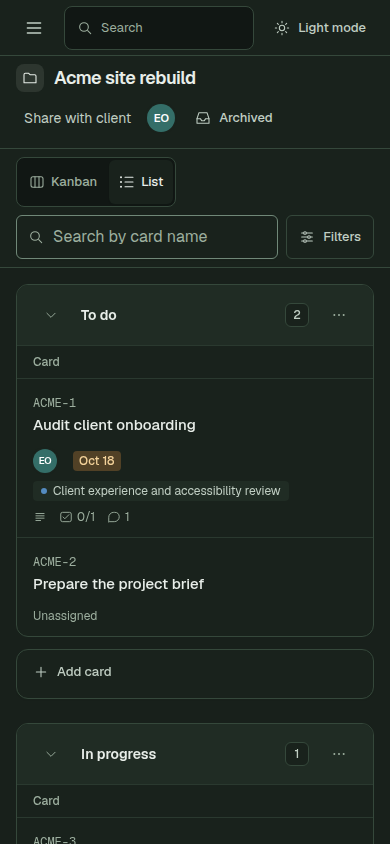
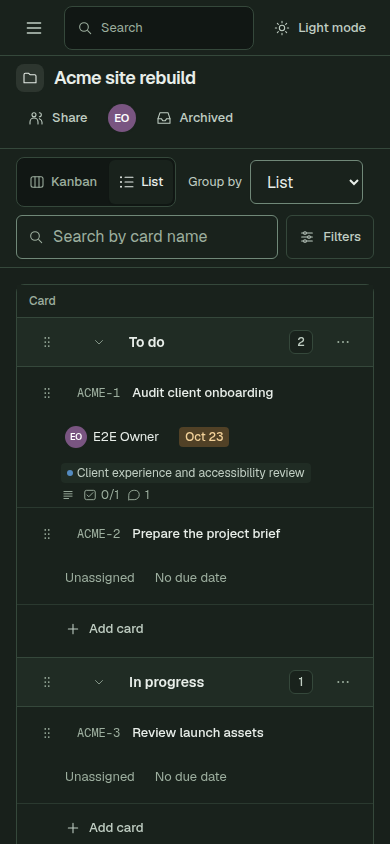
Finalize teams and board grouping preview verification

diff --git a/e2e/project-access.spec.ts b/e2e/project-access.spec.ts
@@ -107,10 +107,10 @@ test('empty access, team sharing, scoped assignment, personal stars and live uns
   await expect(member.getByRole('region', { name: 'Starred', exact: true })).toHaveCount(0);
   await owner.keyboard.press('Escape'); await owner.reload();
   await expect(sidebar.getByRole('region', { name: 'Starred', exact: true }).getByRole('link', { name: 'Acme site rebuild', exact: true })).toBeVisible();
-  await owner.screenshot({ path: info.outputPath('project-teams-light.png'), fullPage: true, animations: 'disabled' });
+  await owner.screenshot({ path: info.outputPath('project-teams-light.png'), fullPage: true, animations: 'disabled', style: 'nextjs-portal { visibility: hidden; }' });
   await owner.getByRole('button', { name: 'Share', exact: true }).click();
   await expect(share.getByRole('button', { name: 'Unshare Delivery' })).toBeVisible();
-  await owner.screenshot({ path: info.outputPath('project-sharing-light.png'), fullPage: true, animations: 'disabled' });
+  await owner.screenshot({ path: info.outputPath('project-sharing-light.png'), fullPage: true, animations: 'disabled', style: 'nextjs-portal { visibility: hidden; }' });
   await share.getByRole('button', { name: 'Unshare Delivery' }).click();
   await owner.getByRole('alertdialog', { name: 'Unshare team?' }).getByRole('button', { name: 'Unshare team', exact: true }).click();
   await expect(member.getByRole('heading', { name: "You don't have access to this project" })).toBeVisible();
@@ -154,7 +154,7 @@ test('a team admin invites a guest with default comment access to exactly the sh
     const context = canvas.getContext('2d')!; context.font = style.font;
     return context.measureText(node.selectedOptions[0]!.text).width + parseFloat(style.paddingLeft) + parseFloat(style.paddingRight) + 20 <= node.clientWidth;
   })).toBe(true);
-  await admin.screenshot({ path: info.outputPath('team-guests-mobile-dark.png'), fullPage: true, animations: 'disabled' });
+  await admin.screenshot({ path: info.outputPath('team-guests-mobile-dark.png'), fullPage: true, animations: 'disabled', style: 'nextjs-portal { visibility: hidden; }' });
   expect(await admin.evaluate(() => document.documentElement.scrollWidth <= innerWidth)).toBe(true);
   const guest = await accept(browser, email, 'Partner Guest', true);
   await expect(guest).toHaveURL(new RegExp(`/portal/${projectId}$`));
@@ -189,6 +189,6 @@ test('team management preserves failed names, archives/restores, and enforces th
   await page.getByRole('button', { name: 'Restore team', exact: true }).click();
   await page.getByRole('alertdialog', { name: 'Restore team?' }).getByRole('button', { name: 'Restore team', exact: true }).click();
   await expect(page.getByLabel('Rename team')).toHaveValue('Design studio');
-  await page.screenshot({ path: info.outputPath('team-settings-mobile-light.png'), fullPage: true, animations: 'disabled' });
+  await page.screenshot({ path: info.outputPath('team-settings-mobile-light.png'), fullPage: true, animations: 'disabled', style: 'nextjs-portal { visibility: hidden; }' });
   await page.context().close();
 });

diff --git a/e2e/list-editing.spec.ts b/e2e/list-editing.spec.ts
@@ -65,6 +65,8 @@ test('mobile rows keep inline editors, drawer access and drag handles reachable 
   const due = page.getByRole('dialog', { name: `Due date for ${first.key}` });
   const box = (await due.boundingBox())!; expect(box.x).toBeGreaterThanOrEqual(12); expect(box.x + box.width).toBeLessThanOrEqual(378);
   await due.getByLabel('Due date', { exact: true }).fill('2026-11-21T09:00'); await due.getByRole('button', { name: 'Save', exact: true }).click();
+  await expect(due).toBeHidden();
+  await expect(task.getByRole('button', { name: `Edit due date for ${first.key}` }).getByTestId('due-pill')).toBeVisible();
   await page.screenshot({ path: info.outputPath('list-table-mobile.png'), fullPage: true, animations: 'disabled', style: 'nextjs-portal { visibility: hidden; }' });
   expect(await page.getByTestId('board-list-view').evaluate((element) => element.scrollWidth <= element.clientWidth)).toBe(true);
   expect(await page.evaluate(() => document.documentElement.scrollWidth <= innerWidth)).toBe(true);
@@ -107,6 +109,7 @@ test('one compact table supports inline name, assignment and due-date editing wi
   await due.getByLabel('Due date', { exact: true }).fill('2026-11-20T10:30');
   await due.getByLabel('Mark due date complete').check(); await due.getByRole('button', { name: 'Save', exact: true }).click();
   await expect(due).toBeHidden(); await expect(dueTrigger.getByTestId('due-pill')).toHaveAttribute('data-state', 'done');
+  await expect(page.getByTestId('toast')).toHaveCount(0);
   await page.screenshot({ path: info.outputPath('list-table-desktop.png'), fullPage: true, animations: 'disabled', style: 'nextjs-portal { visibility: hidden; }' });
   await page.getByRole('button', { name: 'Switch to dark mode' }).click();
   await page.screenshot({ path: info.outputPath('list-table-dark.png'), fullPage: true, animations: 'disabled', style: 'nextjs-portal { visibility: hidden; }' });

diff --git a/e2e/board-grouping.spec.ts b/e2e/board-grouping.spec.ts
@@ -146,6 +146,8 @@ test('due drags set Today, ask for Later, cancel and retry without changing list
   await expect(page.getByRole('table', { name: 'Board cards' })).toBeVisible();
   await expect(group(page, 'No due date')).toContainText('Plan the launch');
   await page.setViewportSize({ width: 390, height: 844 });
+  await expect(page.getByRole('button', { name: 'List', exact: true })).toHaveAttribute('aria-pressed', 'true');
+  await expect(page.getByRole('table', { name: 'Board cards' })).toBeVisible();
   expect(await page.evaluate(() => document.documentElement.scrollWidth <= innerWidth)).toBe(true);
   await page.screenshot({ path: info.outputPath('group-list-mobile-dark.png'), fullPage: true, animations: 'disabled', style: 'nextjs-portal { visibility: hidden; }' });
   await page.context().close();
@@ -178,6 +180,8 @@ test('guest due grouping is read-only, excludes assignees and survives returning
   await expect(guest.locator('[data-group-card-handle], [aria-roledescription="draggable"]')).toHaveCount(0);
   await guest.getByTestId('portal-card').click(); await guest.getByRole('link', { name: '← Board', exact: true }).click();
   await expect(guest.getByRole('combobox', { name: 'Group by' })).toHaveValue('due');
+  await guest.getByRole('tab', { name: 'No due date', exact: true }).click();
+  await expect(guest.getByTestId('portal-card')).toContainText('Guest visible card');
   await guest.screenshot({ path: info.outputPath('group-guest-mobile.png'), fullPage: true, animations: 'disabled', style: 'nextjs-portal { visibility: hidden; }' });
   expect(await guest.evaluate(() => document.documentElement.scrollWidth <= innerWidth)).toBe(true);
   await page.context().close(); await guest.context().close();

diff --git a/docs/handoffs/TEAMS_RELEASE_AND_BOARD_GROUPING.md b/docs/handoffs/TEAMS_RELEASE_AND_BOARD_GROUPING.md
@@ -1,41 +1,49 @@
 # Finish the teams release, then board grouping
 
-Status: checkpointed at the user's request, 2026-10-16; implementation is in place,
-final preview refresh/review remains. The user subsequently requested committing,
-pushing the feature branch and continuing another day, superseding the original
-no-push instruction below. No PR is opened by this session.
+Status: done, 2026-10-21. Implementation, preview review and all required checks
+are complete on `feat/teams-project-access`. No handoff tasks remain. The accepted
+scope below is retained as the implementation record.
 
-## Checkpoint and resumption
+## Completion record
 
-- Backend `faa34c0` was verified using a fresh API dev process. The owner access
-  reproduction and member-to-admin promotion regression pass. The Share picker
-  already restricted choices to member roles; it does not filter access responses.
-  `ACCESS_CONTRACT_BLOCKER.md` is resolved.
-- Mobile Teams now stacks identity above controls and gives the add-person select
-  a full row. Browser checks verify readable selector text and control placement.
-  Star failure/retry, unstar and reload persistence have acceptance coverage.
-  The three whitespace warnings were already cleaned in `a358014`.
-- Grouping is implemented for member Kanban/List, with URL composition, assignable
-  people, atomic swaps, all six timezone-aware due windows, reschedule/Later,
-  optimistic rollback, keyboard focus/collapsed destinations and boundary/realtime
-  refresh. The portal has read-only due grouping and preserves it on card return.
-- Lint, typecheck, 155 unit tests and the production build passed. Five grouping
-  journeys and five access/Teams/star journeys passed against the real backend.
-  The full 59-check browser suite passed (3.5 minutes) with
-  `BACKEND_DIR=/home/chandan/Desktop/agency-mvp-clone PW_CHANNEL=chrome npm run test:e2e`.
-  Four checks use panel-motion presentation fixtures; the new access/grouping
-  journeys use the real API, with intercepted requests only for failure recovery.
-- Remaining: rerun the due-drag journey with its latest screenshot-settling waits,
-  review the mobile grouped List screenshot after it actually reaches List, and
-  save refreshed previews (Teams, sharing, icon picker, editable List and grouping).
-  The previous grouped mobile screenshot captured the preceding Kanban transition
-  and a deliberate test-error toast; do not publish that image as the List preview.
-  The waits were corrected, but their refreshed capture still needs review.
-- Update the preview index, mark this handoff done only after the remaining visual
-  work and verification pass, then follow the user's next release instructions.
-  Backend source was not changed. Existing PR #4 remains unchanged.
+- Backend `faa34c0` was started in a fresh API process and is unchanged. The owner
+  access reproduction and member-to-admin promotion check pass. The Share picker
+  offers only member roles; it does not filter the access response. See the
+  [resolved blocker](ACCESS_CONTRACT_BLOCKER.md).
+- Teams controls stack beneath each person's identity on mobile, and the
+  add-person selector gets a full row. Tests verify text fits and control placement.
+  Star failure/retry, unstar and reload persistence are covered. Whitespace warnings
+  were cleaned in `a358014`; release follow-up is committed in `9920563`.
+- Board grouping is committed in `b678768`: member Kanban/List, URL/filter
+  composition, assignable people, atomic swaps, timezone-aware due windows,
+  reschedule/Later, optimistic rollback, keyboard focus/collapsed destinations,
+  boundary/realtime refresh and the separate read-only guest due presentation.
+- Fifteen [saved previews](../previews/README.md) were refreshed and visually
+  reviewed in light/dark themes and at desktop/mobile widths: grouping, the guest
+  portal, populated and editable List tables, Teams, sharing, stars and icon editing.
+  The mobile grouped capture shows the selected List table. Captures wait for saved
+  dates and deliberate error toasts to settle; guest captures show the visible card.
+- The drawer-history motion regression waits for the drawer's full open width
+  before testing Back. This avoids starting the closing check during its opening
+  transition. All four focused motion checks pass; no app motion behavior changed.
+- Passed: lint, typecheck, 155 unit tests, production build and the complete
+  59-check browser suite (3.9 minutes). Four browser checks use motion fixtures; the
+  access/grouping journeys use the real API and intercept only failure cases.
+- Preview-index links and PNG dimensions are verified. No API contract discrepancy
+  remains. Final verification and preview records are committed separately from
+  the implementation. This resumed session does not push or open a PR.
 
-## Original handoff
+Verification commands:
+
+```sh
+npm run lint
+npm run typecheck
+npm test -- --runInBand
+npm run build
+BACKEND_DIR=/home/chandan/Desktop/agency-mvp-clone PW_CHANNEL=chrome npm run test:e2e
+```
+
+## Accepted handoff
 
 Written by the backend session for the frontend session.
 The backend is finished, tested and pushed on `refactor/api-domains` (latest commit `faa34c0`) in

diff --git a/docs/previews/README.md b/docs/previews/README.md
@@ -3,6 +3,10 @@
 Screenshots come from Playwright journeys against the local API with disposable
 accounts. Images show implemented behavior; synthetic names are test data.
 
+Teams, sharing, the icon picker, editable List tables and board grouping were
+refreshed and visually reviewed on 2026-10-21. Capture journeys wait for saved
+state, the intended presentation and deliberate failure toasts to settle.
+
 - [Inline list creation](list-created-inline.png) / [200px empty lists](kanban-empty-height.png): click Add list and name the new column directly.
 - [Board filters](board-filters-light.png) / [dark](board-filters-dark.png) / [mobile](board-filters-mobile.png): right-aligned search, anchored filters and the project icon header.
 - Confirmation modal light/dark/mobile screenshots are generated by `e2e/confirmation.spec.ts`, which checks focus, cancellation and confirmed actions.
@@ -10,12 +14,17 @@ accounts. Images show implemented behavior; synthetic names are test data.
 - [Light app bar](appbar-light.png): 56px global bar and module rail with the contextual sidebar.
 - [Dark Kanban](appbar-dark.png): full semantic theme and separate Add card tiles.
 - [Mobile dark Kanban](appbar-dark-mobile-board.png) / [navigation](appbar-dark-mobile.png): compact board controls, labelled mode switch and global search.
-- Editable List table screenshots are generated by `e2e/list-editing.spec.ts`; refreshed saved previews are pending.
+- [Editable List table](list-table-desktop.png) / [dark](list-table-dark.png) / [mobile](list-table-mobile.png): inline name, assignee and due-date editing, section rows and reorder handles.
 - [Populated List table](list-view-desktop.png) / [dark](list-view-dark.png) / [mobile](list-view-mobile.png): responsive labels, activity and shared board controls.
-- [Project editor](project-editor.png): earlier editor preview; a refreshed saved icon-picker preview is pending.
-- Team navigation, sharing and mobile Teams screenshots are generated by `e2e/project-access.spec.ts`; saved previews remain pending the [access contract checkpoint](../handoffs/ACCESS_CONTRACT_BLOCKER.md).
+- [Project editor](project-editor.png): saved icon picker, predefined colors and live preview.
+- [Team projects and stars](project-teams-light.png) / [Project sharing](project-sharing-light.png): personal Starred, team navigation and project-admin access controls. Implicit workspace administrators are absent from the direct-grant list.
+- [Mobile Teams](team-settings-mobile-light.png) / [Guest invitation in dark mode](team-guests-mobile-dark.png): stacked people and access controls, full-width add-person picker and last-admin protection.
+- [Assignee grouping](group-assignee-light.png) / [Due grouping in dark mode](group-due-dark.png): empty groups remain available, and drags change assignments or due dates without changing list order.
+- [Grouped List on mobile](group-list-mobile-dark.png) / [Guest due grouping](group-guest-mobile.png): responsive card subrows and read-only guest tiles without assignee controls.
 - [Kanban desktop](kanban-desktop.png) / [mobile](kanban-mobile.png): populated board spacing.
 
 Icons, stars, teams and access controls use the live API. Their implementation
 records are in [personalization](../handoffs/PROJECT_PERSONALIZATION.md) and
 [the contract integration](../handoffs/BACKEND_CONTRACT_UPGRADE.md).
+The completed [teams and grouping handoff](../handoffs/TEAMS_RELEASE_AND_BOARD_GROUPING.md)
+records the capture journeys and verification commands.

diff --git a/docs/handoffs/README.md b/docs/handoffs/README.md
@@ -5,9 +5,8 @@ Completed handoffs remain as implementation and contract records. Include curren
 authorization, acceptance criteria, test plan and what remains unimplemented.
 Never represent a proposal as a completed feature.
 
-- [Teams release and board grouping](TEAMS_RELEASE_AND_BOARD_GROUPING.md): checkpointed
-  at the user's request. Access, mobile Teams, stars and grouping are implemented;
-  refreshed preview capture/review remains before marking the handoff done.
+- [Teams release and board grouping](TEAMS_RELEASE_AND_BOARD_GROUPING.md): completed
+  2026-10-21, including 15 reviewed previews, 155 unit tests and all 59 browser checks.
 - [Resolved access contract mismatch](ACCESS_CONTRACT_BLOCKER.md): backend
   `faa34c0` excludes implicit workspace administrators; real-API regression covers
   fresh projects, promotion and the sharing picker.

diff --git a/docs/BOARD_VIEWS.md b/docs/BOARD_VIEWS.md
@@ -139,6 +139,14 @@ and subscription gates remain authoritative.
 
 ## Verification
 
+`e2e/board-grouping.spec.ts` covers URL/filter composition, reload/history,
+atomic assignee swaps in both presentations, Today and Later drops, rejected
+Overdue targets, failed-write rollback, collapsed destination focus, due expiration,
+realtime updates and read-only guest grouping. Captures wait for the selected
+presentation and error-toast dismissal; the mobile grouped List preview asserts
+that the table is visible. Grouping and timezone unit checks pin the clock and
+cover non-UTC midnight and daylight saving boundaries.
+
 `e2e/board-filters.spec.ts` covers right alignment, stable board height, combined
 filter selection/reset, keyboard focus and dismissal, reload, both views, mobile
 resize/overflow and saved project icons with unknown-identifier fallback.

diff --git a/docs/handoffs/BACKEND_CONTRACT_UPGRADE.md b/docs/handoffs/BACKEND_CONTRACT_UPGRADE.md
@@ -4,7 +4,7 @@ Status: implemented on `feat/teams-project-access`, 2026-10-16. The user confirm
 the backend is finished, tested and migrated. Frontend implementation follows
 `../agency-mvp-clone/apps/api/contract/CHANGELOG.md` (2026-10-16), `openapi.yaml`,
 the realtime README and `docs/backend/LANGUAGE.md`. Backend source is unchanged.
-Verification and remaining work are recorded in the release checkpoint below.
+Verification and completion are recorded in the release follow-up below.
 
 Release follow-up: [the access response mismatch](ACCESS_CONTRACT_BLOCKER.md)
 is resolved by backend `faa34c0`, verified after starting a fresh API process.
